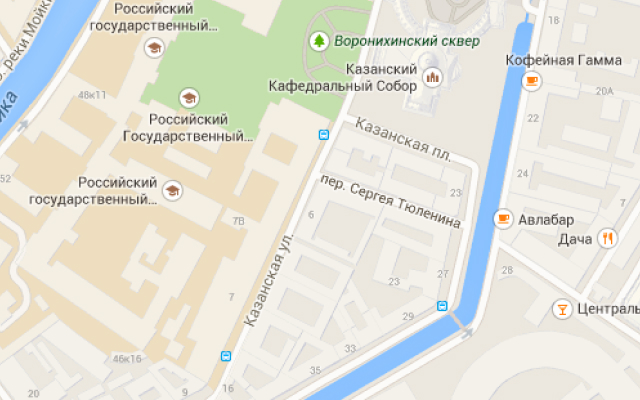
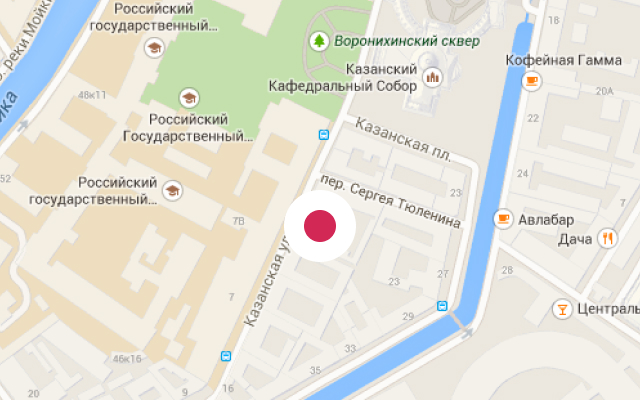
Исправляет критерий Б31

Changed region(s): [[0.4375, 0.48, 0.5625, 0.66]]

diff --git a/source/index.html b/source/index.html
@@ -260,15 +260,7 @@
 
       <section class="map">
         <h2 class="visually-hidden">Схема проезда</h2>
-        <picture>
-          <source type="image/webp" media="(min-width: 1060px)" srcset="img/map-desktop.webp 1x, img/map-desktop@2x.webp 2x">
-          <source type="image/webp" media="(min-width: 660px)" srcset="img/map-tablet.webp 1x, img/map-tablet@2x.webp 2x">
-          <source type="image/webp" srcset="img/map.webp 1x, img/map@2x.webp 2x">
-          <source media="(min-width: 1060px)" srcset="img/map-desktop.jpg 1x, img/map-desktop@2x.jpg 2x">
-          <source media="(min-width: 660px)" srcset="img/map-tablet.jpg 1x, img/map-tablet@2x.jpg 2x">
-          <img class="map__image" src="img/map.jpg" srcset="img/map@2x.jpg 2x" alt="г. Санкт-Петербург ул. Большая Конюшенная, 19/8">
-        </picture>
-        <iframe class="map__yandex" src="https://yandex.ru/map-widget/v1/-/CCUEAOTSPD" width="560" height="400"></iframe>
+        <iframe class="map__google" src="https://www.google.com/maps/embed?pb=!1m18!1m12!1m3!1d1998.6037999040354!2d30.322010416394033!3d59.938716271971415!2m3!1f0!2f0!3f0!3m2!1i1024!2i768!4f13.1!3m3!1m2!1s0x4696310fca5ba729%3A0xea9c53d4493c879f!2sBolshaya+Konyushennaya+ul.%2C+19%2C+Sankt-Peterburg%2C+Russia%2C+191186!5e0!3m2!1sen!2s!4v1441888483426" allowfullscreen title="Офис компании по адресу ул. Большая Конюшенная 19/8, Санкт-Петербург"></iframe>
       </section>
     </main>
 

diff --git a/source/sass/blocks/map.scss b/source/sass/blocks/map.scss
@@ -3,7 +3,14 @@
   overflow-y: hidden;
   width: 100%;
   height: 200px;
+  background-image: url("../../img/map.jpg");
+  background-repeat: no-repeat;
+  background-position: center center;
+  background-size: cover;
 
+  @media (min-resolution: 144dpi) , (min-resolution: 2dppx) {
+    background-image: url("../../img/map@2x.jpg");
+  }
 
   &::before {
     content: "";
@@ -27,24 +34,26 @@
   @media (min-width: $tablet-width) {
     height: 374px;
     margin-top: -34px;
+    background-image: url("../../img/map-tablet.jpg");
+
+    @media (min-resolution: 144dpi) , (min-resolution: 2dppx) {
+      background-image: url("../../img/map-tablet@2x.jpg");
+    }
   }
 
   @media (min-width: $desktop-width) {
     height: 502px;
+    margin-top: -37px;
+    background-image: url("../../img/map-desktop.jpg");
+
+    @media (min-resolution: 144dpi) , (min-resolution: 2dppx) {
+      background-image: url("../../img/map-desktop@2x.jpg");
+    }
   }
 }
 
-.map__yandex {
+.map__google {
   width: 100%;
   height: 100%;
   border: none;
-}
-
-.map__image {
-  position: absolute;
-  display: block;
-  width: 100%;
-  top: 0;
-  left: 0;
-  z-index: -1;
 }
